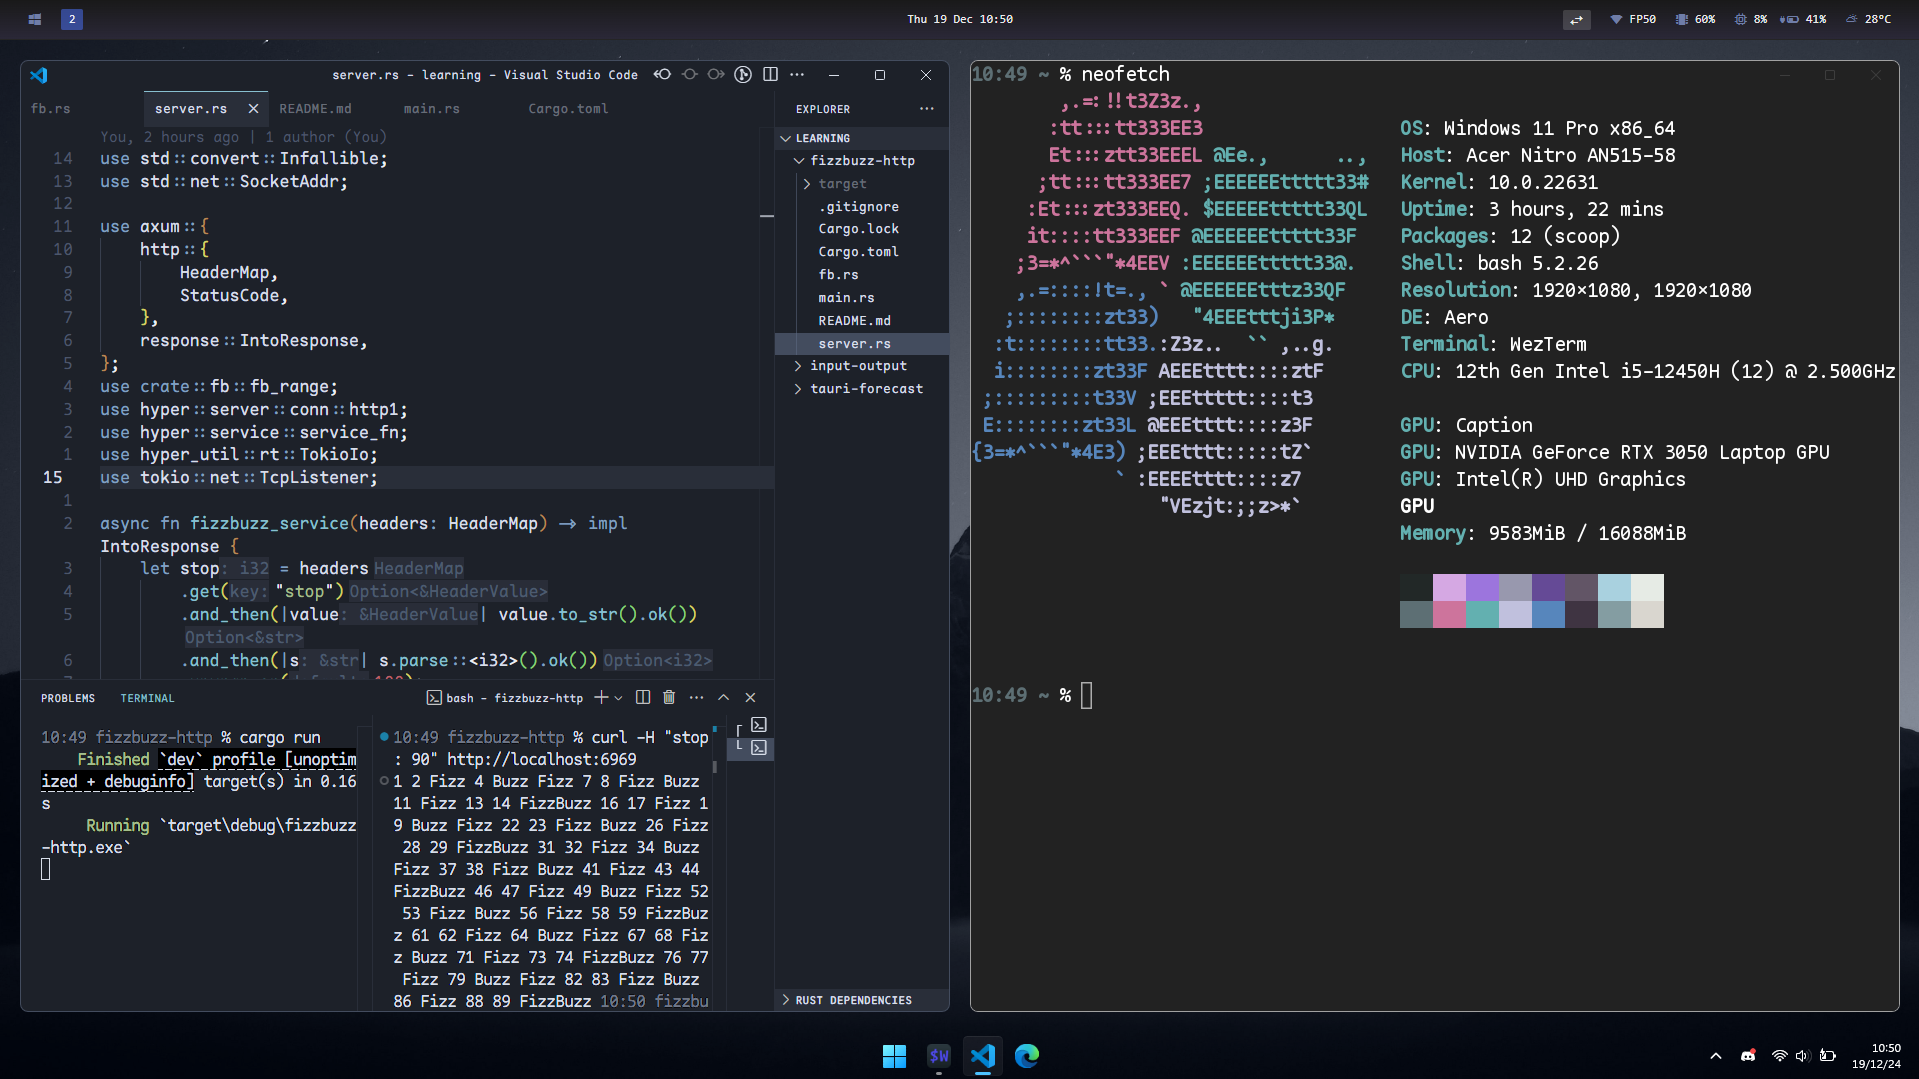
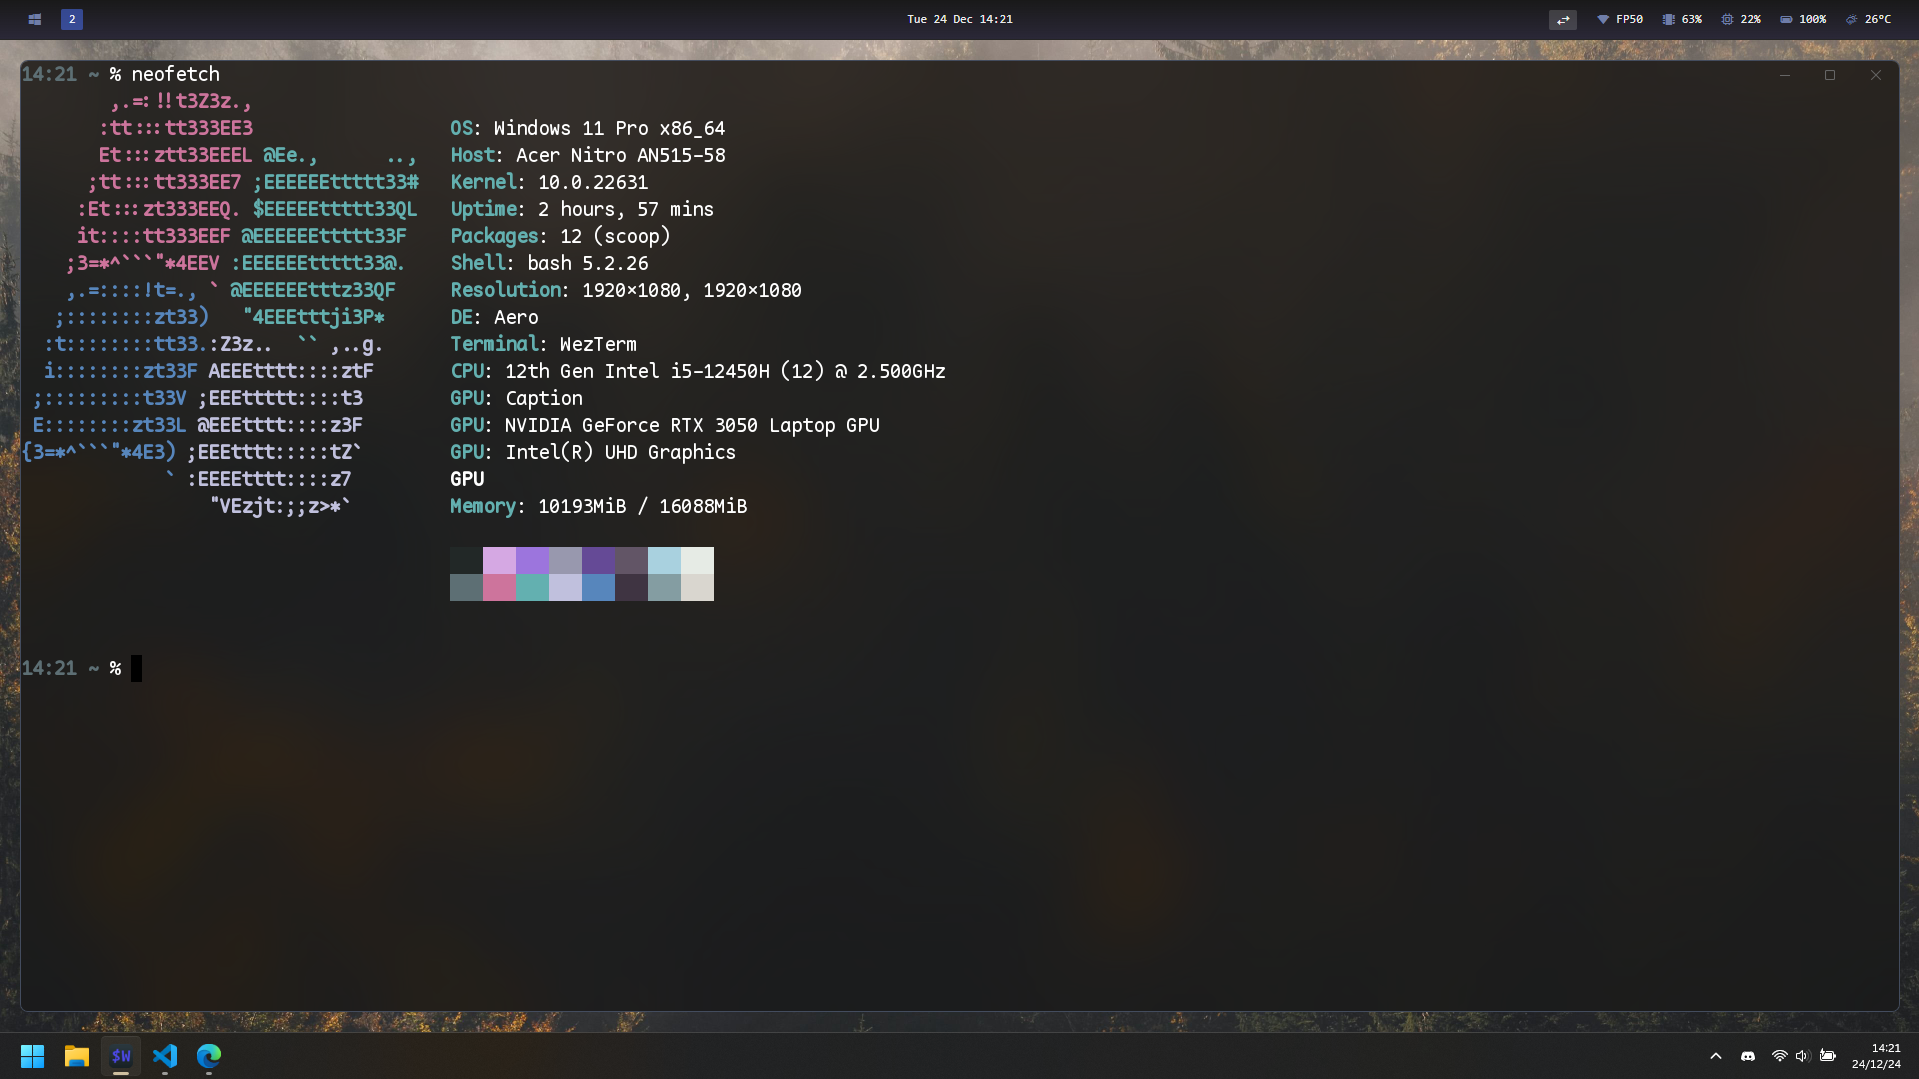
code, wallpaper change, rm translucent

Changed region(s): [[0.0, 0.0, 1.0, 1.0], [0.7071, 0.4893, 0.8916, 0.5811], [0.4919, 0.6423, 0.5227, 0.6728]]

diff --git a/README.md b/README.md
@@ -8,9 +8,9 @@
     - wallpaper/image.jpg (my wallpaper)
     - bashrc/.bashrc (my bashrc)
     - glazewm/config.yaml (my glazewm config)
+    - code/settings.json (my vscode settings)
 - **Assets**:
     - Maple Mono font: [here](https://github.com/subframe7536/maple-font)
-    - TranslucentTB: [on the Microsoft Store](https://apps.microsoft.com/detail/9pf4kz2vn4w9?hl=pt-br&gl=BR)
 
 This is pretty simple... i'll me implementing more stuff i use in the future.
 ## Preview:
